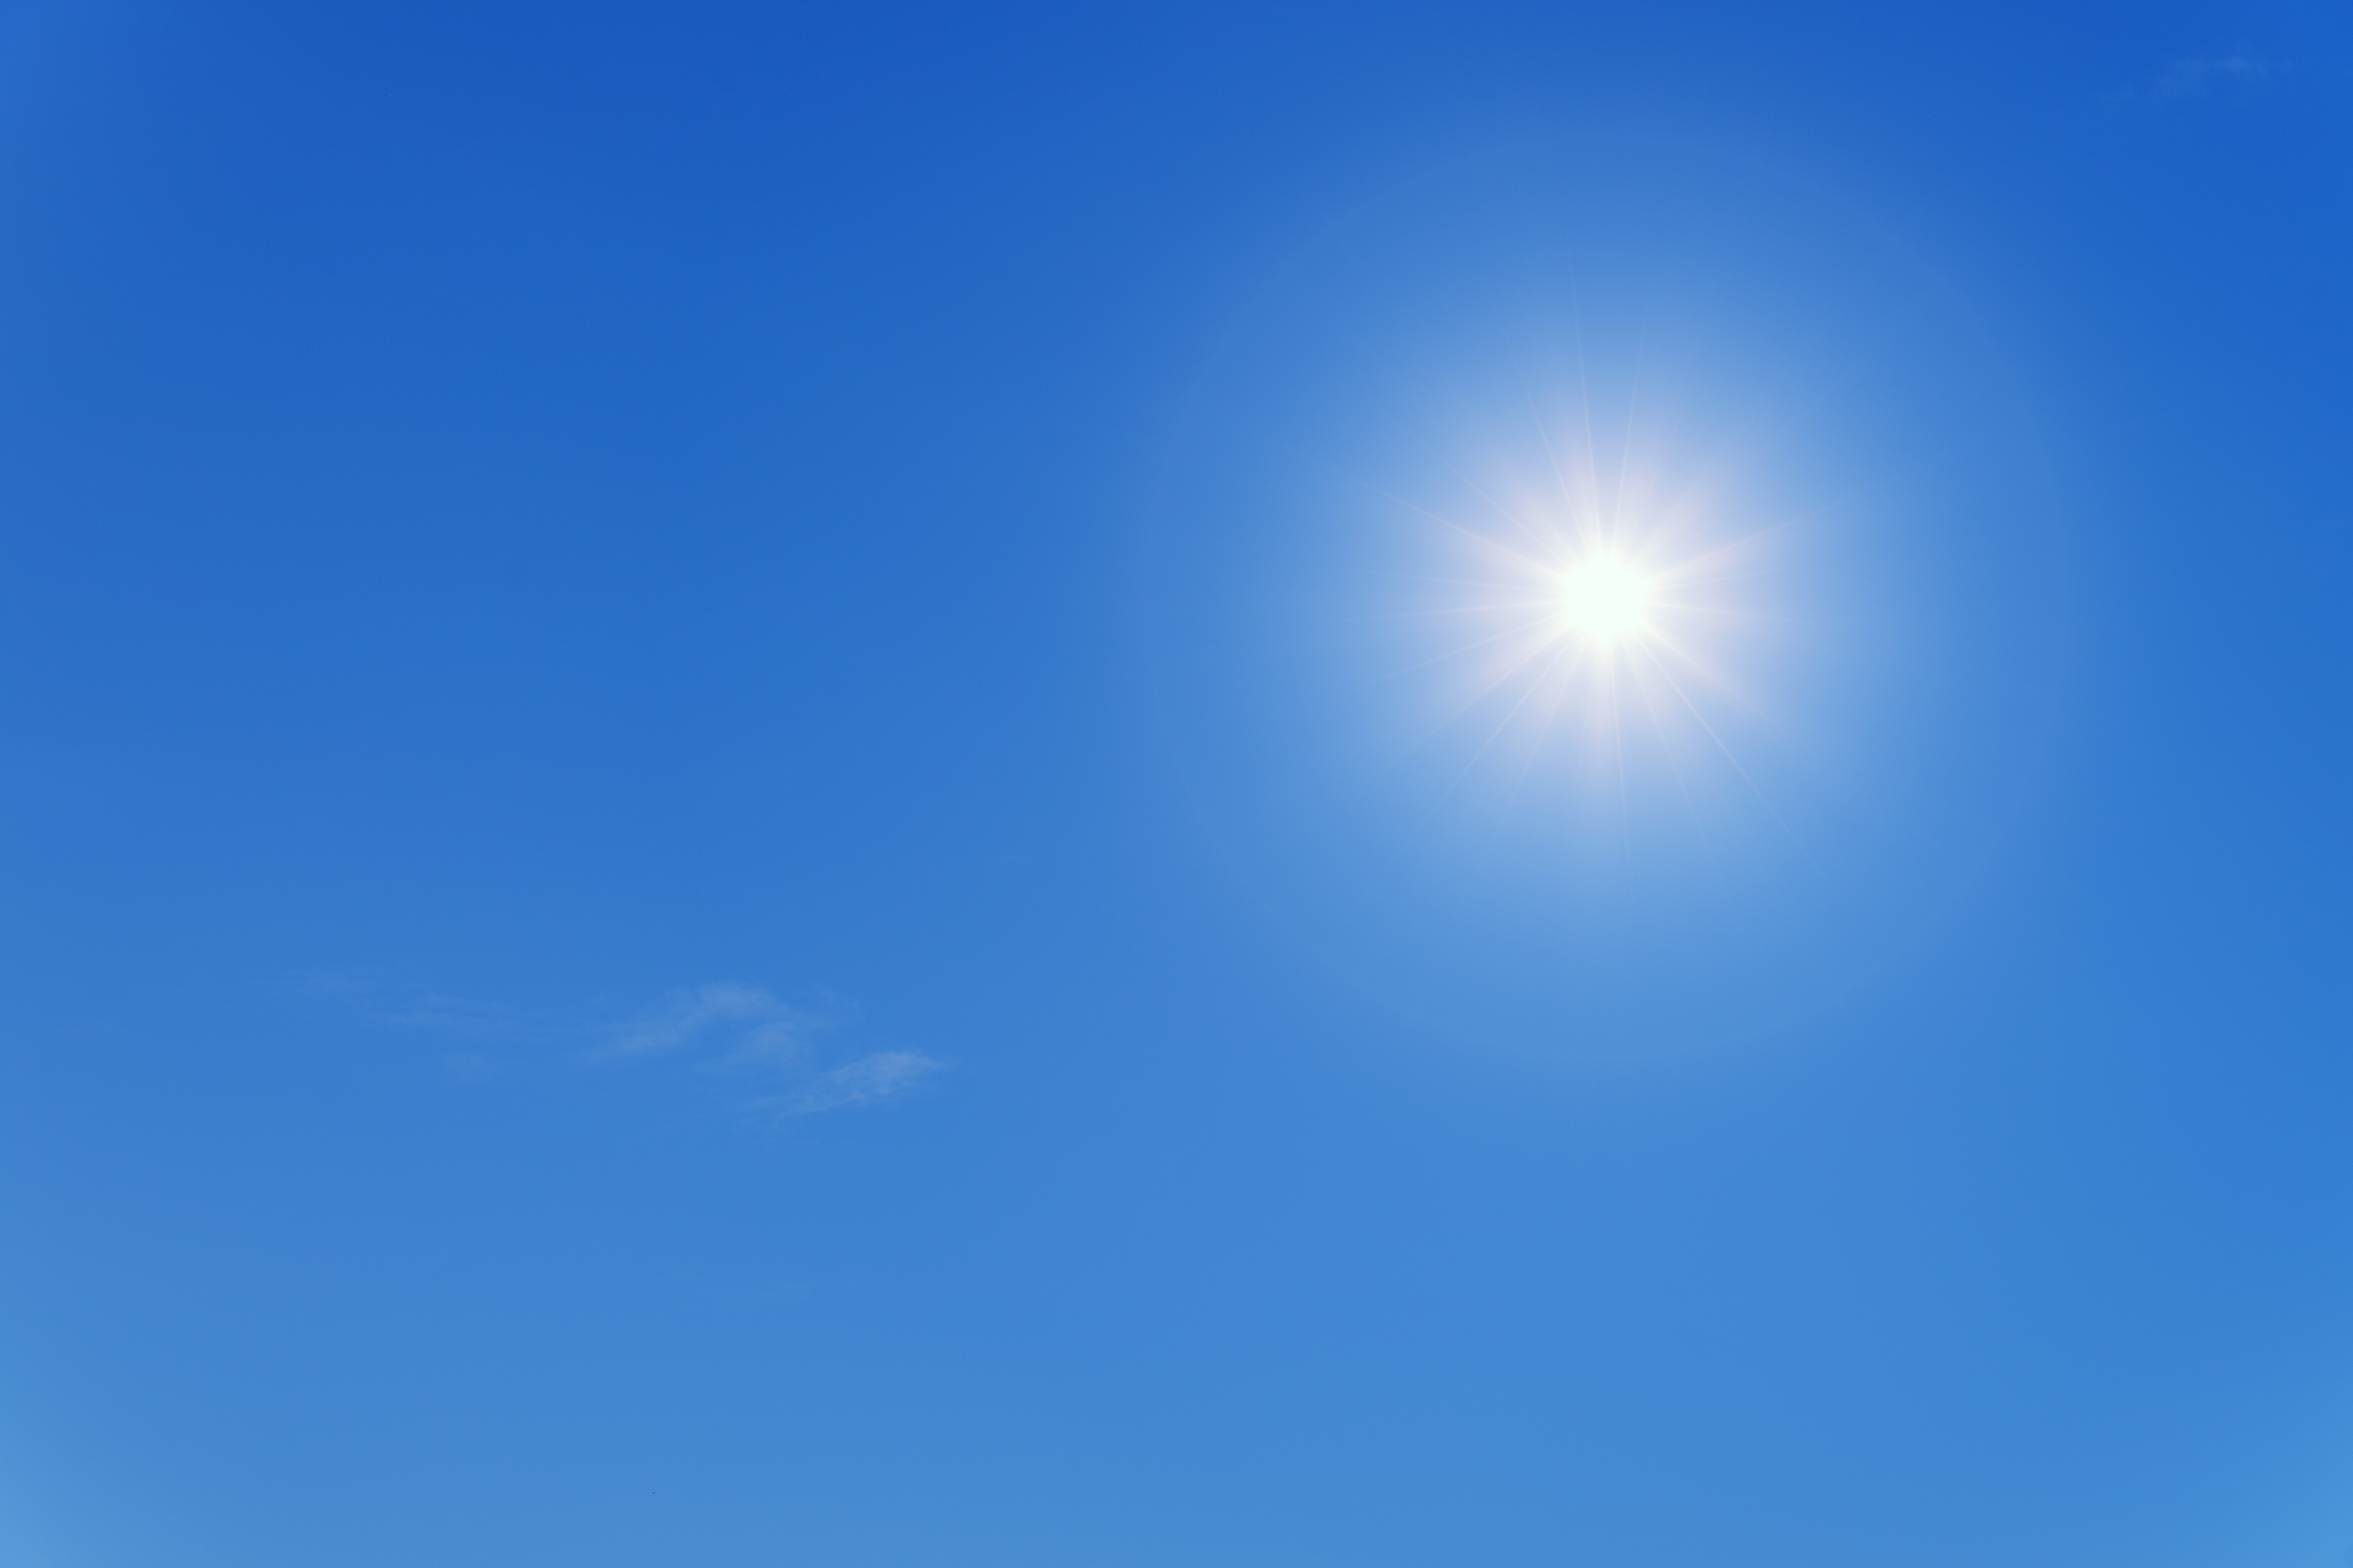
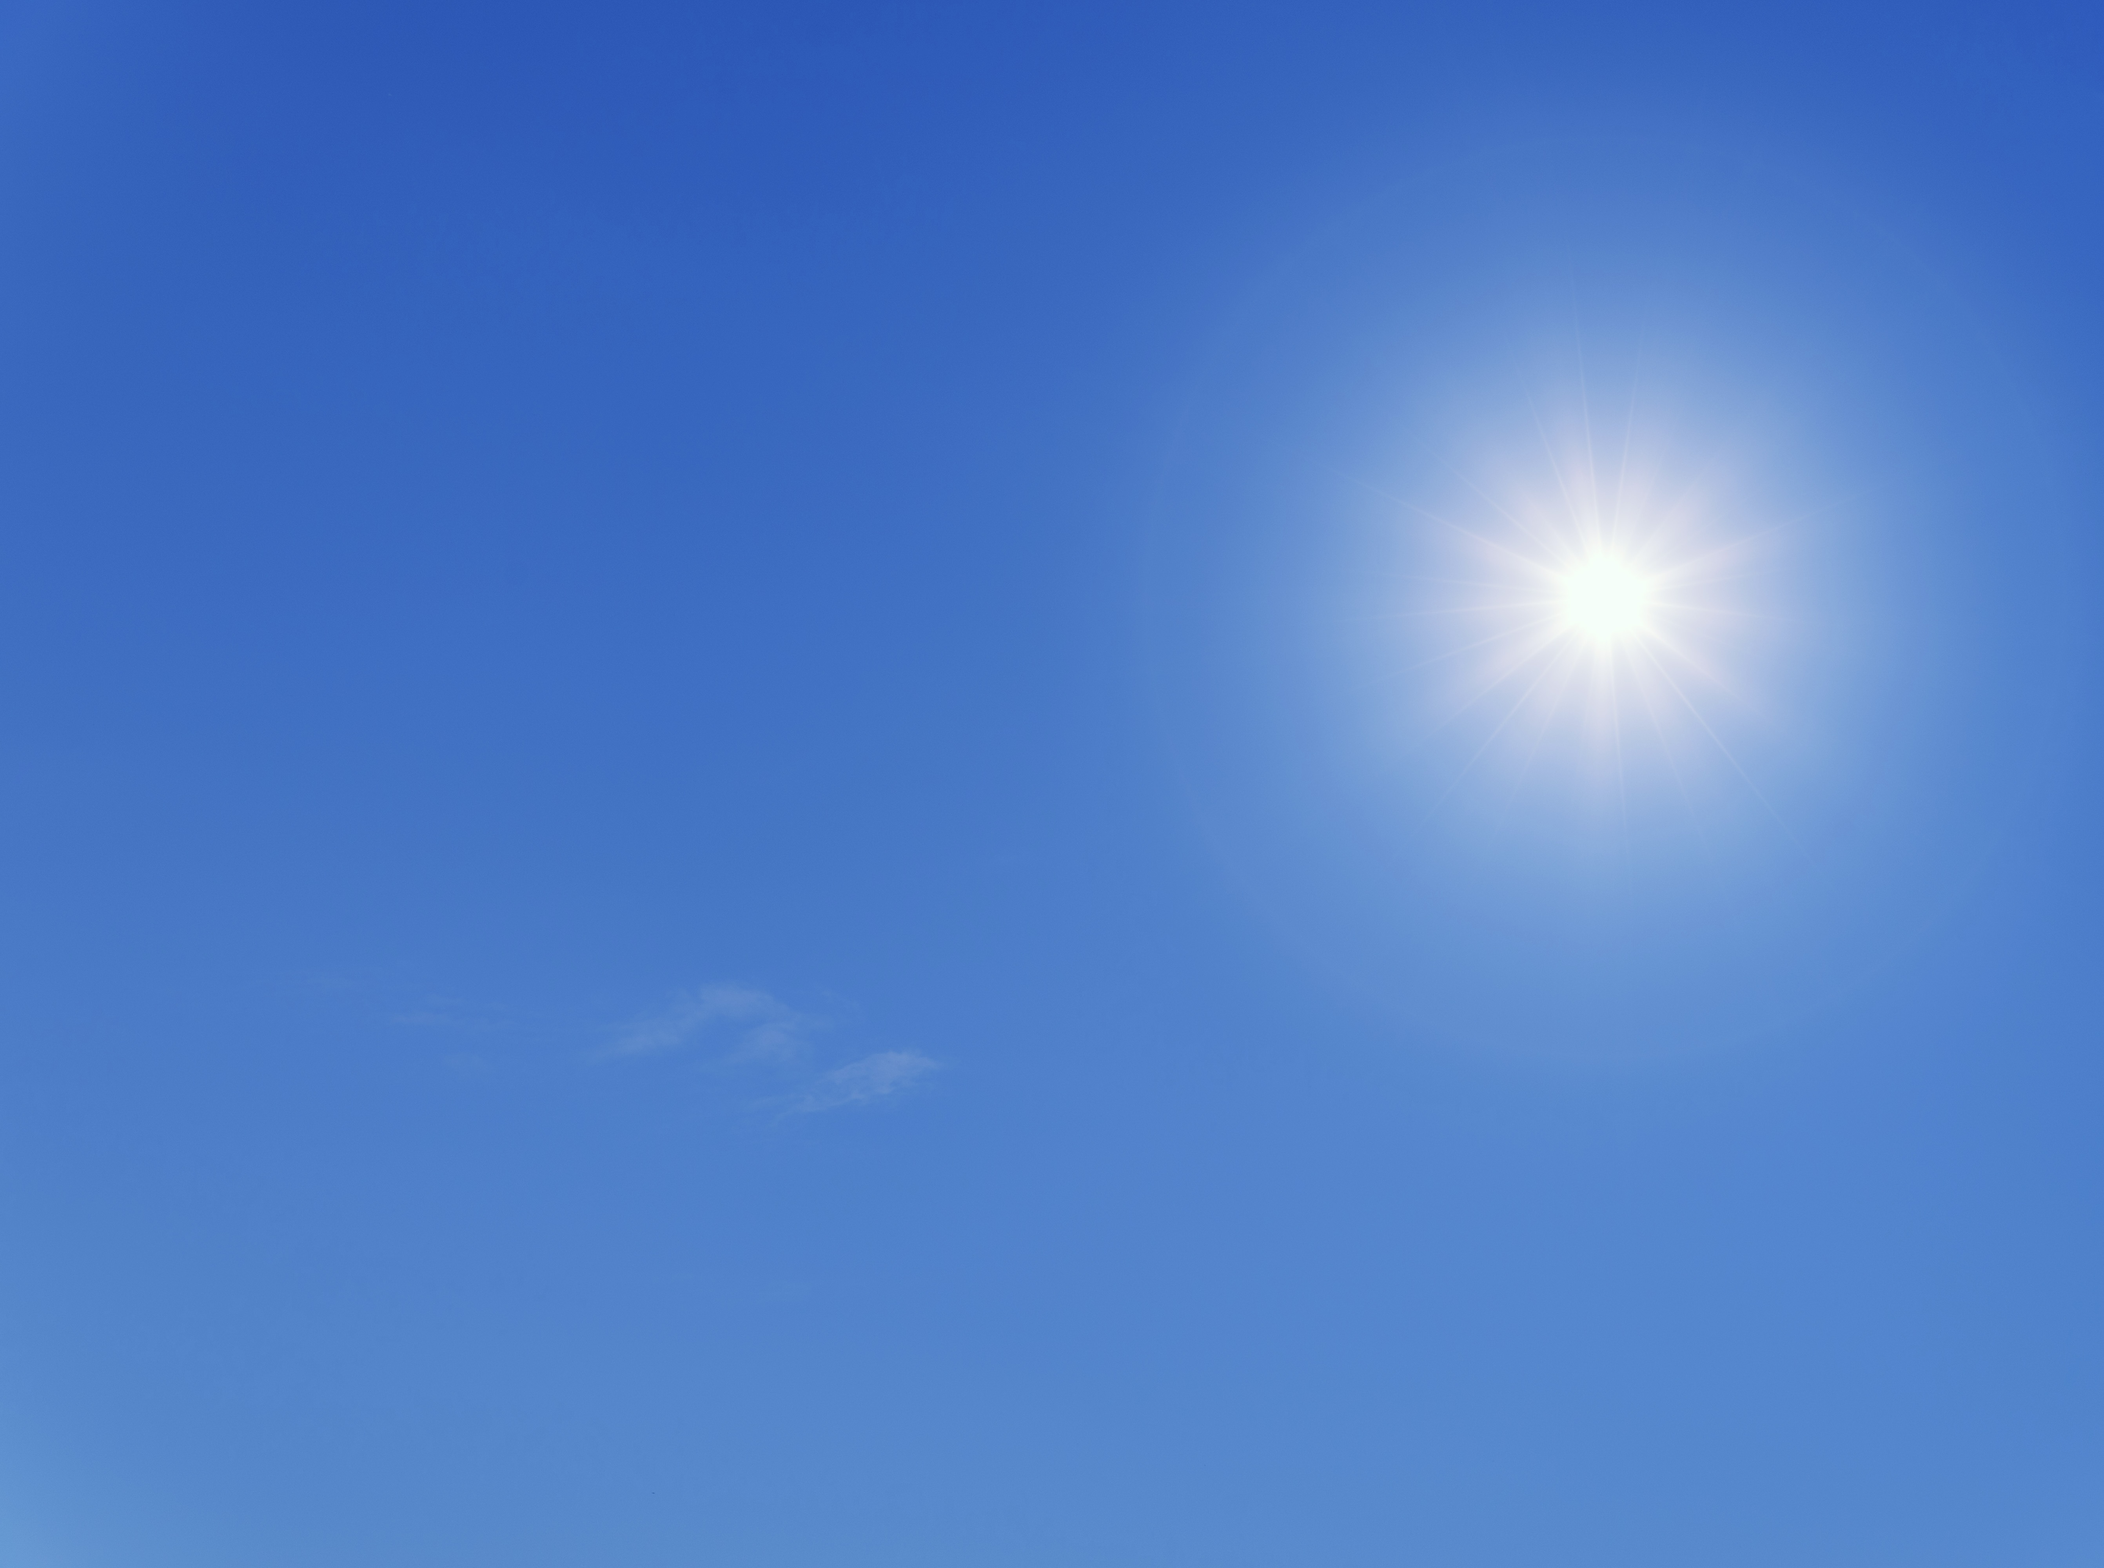
Update background images and background position

Changed region(s): [[0.5601, 0.0, 1.0, 0.875], [0.3112, 0.625, 0.4667, 0.7188], [0.28, 0.6562, 0.3112, 0.6875]]

diff --git a/style.css b/style.css
@@ -1,5 +1,5 @@
 body {
-  background: url('assets/day.jpeg') center center/cover no-repeat;
+  background: url('assets/day.jpeg') right / cover no-repeat;
   display: flex;
   gap: 10px;
   flex-direction: column;
